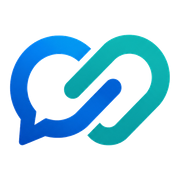
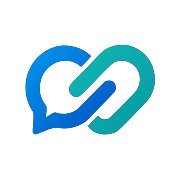
feat: mejora en el icono de la app

diff --git a/frontend/src/components/layout/EmptyConversationState.tsx b/frontend/src/components/layout/EmptyConversationState.tsx
@@ -1,20 +1,39 @@
 "use client";
 
-import { Logo } from "@/components/brand/Logo";
 import { useTranslation } from "@/i18n";
+
+/** Mismo patrón de fondo que el hilo de mensajes (ver globals.css / MessageList.tsx),
+ * pero atenuado: acá es la pantalla vacía "elegí una conversación", no un chat real,
+ * así que el motivo debe notarse apenas — un detalle, no protagonismo. */
+const emptyStateBackgroundStyle = {
+  backgroundImage: "var(--chat-pattern-image)",
+  backgroundColor: "var(--chat-pattern-bg)",
+  backgroundRepeat: "repeat",
+  opacity: 0.5,
+} as const;
 
 export function EmptyConversationState() {
   const { t } = useTranslation();
 
   return (
-    <div className="flex h-full flex-1 flex-col items-center justify-center gap-4 bg-neutral-50 px-6 text-center dark:bg-white/2">
-      <Logo variant="icon" iconClassName="h-20 w-auto opacity-90" />
-      <div>
-        <p className="font-display text-xl font-semibold text-brand-ink dark:text-white">Link</p>
-        <p className="mt-1 max-w-xs text-sm text-neutral-500 dark:text-neutral-400">
-          {t("chat.emptySelectPrompt")}
-        </p>
-      </div>
+    <div className="relative flex h-full flex-1 flex-col items-center justify-center gap-4 overflow-hidden px-6 text-center">
+      <div aria-hidden="true" className="absolute inset-0" style={emptyStateBackgroundStyle} />
+      {/* eslint-disable-next-line @next/next/no-img-element -- SVG vectorial, no pasa por el optimizador de next/image */}
+      <img
+        src="/brand/logo-lockup-vertical.svg"
+        alt="Link"
+        className="relative h-52 w-auto opacity-90 dark:hidden"
+      />
+      {/* eslint-disable-next-line @next/next/no-img-element -- idem, variante para fondo oscuro */}
+      <img
+        src="/brand/logo-lockup-vertical-dark.svg"
+        alt=""
+        aria-hidden="true"
+        className="relative hidden h-52 w-auto opacity-90 dark:block"
+      />
+      <p className="relative max-w-xs text-sm text-neutral-500 dark:text-neutral-400">
+        {t("chat.emptySelectPrompt")}
+      </p>
     </div>
   );
 }

diff --git a/frontend/src/components/layout/MobileChatListScreen.tsx b/frontend/src/components/layout/MobileChatListScreen.tsx
@@ -43,9 +43,15 @@ export function MobileChatListScreen({
       <div className="flex items-center justify-between gap-3 px-4 pb-2 pt-4">
         <div className="flex items-center gap-3">
           <UserMenu onOpenProfileSettings={() => setView("profileSettings")} />
-          <h1 className="font-display text-2xl font-semibold text-brand-ink dark:text-white">
-            {t("chat.chatsTitle")}
-          </h1>
+          {/* eslint-disable-next-line @next/next/no-img-element -- SVG vectorial, no pasa por el optimizador de next/image */}
+          <img src="/brand/logo-wordmark.svg" alt="Link" className="h-6 w-auto dark:hidden" />
+          {/* eslint-disable-next-line @next/next/no-img-element -- idem, variante para fondo oscuro */}
+          <img
+            src="/brand/logo-wordmark-dark.svg"
+            alt=""
+            aria-hidden="true"
+            className="hidden h-6 w-auto dark:block"
+          />
         </div>
         <div className="flex items-center gap-1">
           <ThemeToggle />

diff --git a/frontend/src/components/layout/DesktopSidebar.tsx b/frontend/src/components/layout/DesktopSidebar.tsx
@@ -37,7 +37,13 @@ export function DesktopSidebar({ conversations, status, currentUserId }: Desktop
   return (
     <div className="relative flex h-full w-full flex-col">
       <div className="flex items-center justify-between gap-2 px-4 py-3">
-        <UserMenu onOpenProfileSettings={() => setView("profileSettings")} />
+        <div className="flex items-center gap-2.5">
+          <UserMenu onOpenProfileSettings={() => setView("profileSettings")} />
+          {/* eslint-disable-next-line @next/next/no-img-element -- SVG vectorial, no pasa por el optimizador de next/image */}
+          <img src="/brand/logo-wordmark.svg" alt="Link" className="h-6 w-auto dark:hidden" />
+          {/* eslint-disable-next-line @next/next/no-img-element -- idem, variante para fondo oscuro */}
+          <img src="/brand/logo-wordmark-dark.svg" alt="" aria-hidden="true" className="hidden h-6 w-auto dark:block" />
+        </div>
         <div className="flex items-center gap-1">
           <ThemeToggle />
           <button

diff --git a/frontend/src/components/brand/Logo.tsx b/frontend/src/components/brand/Logo.tsx
@@ -1,4 +1,3 @@
-import Image from "next/image";
 import { cn } from "@/utils/cn";
 
 interface LogoProps {
@@ -12,12 +11,12 @@ interface LogoProps {
 export function Logo({ variant = "full", className, iconClassName, textClassName }: LogoProps) {
   return (
     <span className={cn("inline-flex items-center gap-2.5", className)}>
-      <Image
-        src="/brand/logo-mark.png"
+      {/* eslint-disable-next-line @next/next/no-img-element -- SVG vectorial, no pasa por el optimizador de next/image */}
+      <img
+        src="/brand/logo-mark.svg"
         alt="Link"
-        width={555}
-        height={386}
-        priority
+        width={570}
+        height={395}
         className={cn("h-8 w-auto", iconClassName)}
       />
       {variant === "full" && (

diff --git a/frontend/src/components/layout/MobileChatListScreen.test.tsx b/frontend/src/components/layout/MobileChatListScreen.test.tsx
@@ -86,7 +86,7 @@ describe("MobileChatListScreen", () => {
     vi.clearAllMocks();
   });
 
-  it("renders mobile chat list screen with heading 'Chats', search input, and conversation list", () => {
+  it("renders mobile chat list screen with Link wordmark, search input, and conversation list", () => {
     render(
       <MobileChatListScreen
         conversations={[]}
@@ -95,7 +95,7 @@ describe("MobileChatListScreen", () => {
       />,
     );
 
-    expect(screen.getByRole("heading", { name: "Chats", level: 1 })).toBeInTheDocument();
+    expect(screen.getByAltText("Link")).toBeInTheDocument();
     expect(screen.getByPlaceholderText("Buscar")).toBeInTheDocument();
     expect(screen.getByTestId("conversation-list")).toBeInTheDocument();
   });

diff --git a/frontend/src/components/layout/EmptyConversationState.test.tsx b/frontend/src/components/layout/EmptyConversationState.test.tsx
@@ -3,11 +3,10 @@ import { render, screen } from "@testing-library/react";
 import { EmptyConversationState } from "./EmptyConversationState";
 
 describe("EmptyConversationState", () => {
-  it("renders brand logo icon and placeholder invitation text", () => {
+  it("renders brand logo lockup and placeholder invitation text", () => {
     render(<EmptyConversationState />);
 
     expect(screen.getByRole("img", { name: "Link" })).toBeInTheDocument();
-    expect(screen.getByText("Link", { selector: "p" })).toBeInTheDocument();
     expect(
       screen.getByText("Seleccioná una conversación para empezar a chatear."),
     ).toBeInTheDocument();

diff --git a/frontend/src/components/layout/DesktopSidebar.test.tsx b/frontend/src/components/layout/DesktopSidebar.test.tsx
@@ -96,6 +96,7 @@ describe("DesktopSidebar", () => {
     );
 
     expect(screen.getByTestId("user-menu")).toBeInTheDocument();
+    expect(screen.getByAltText("Link")).toBeInTheDocument();
     expect(screen.getByTestId("theme-toggle")).toBeInTheDocument();
     expect(screen.getByPlaceholderText("Buscar conversación")).toBeInTheDocument();
     expect(screen.getByTestId("filter-bar")).toBeInTheDocument();
